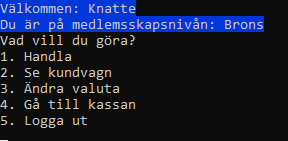
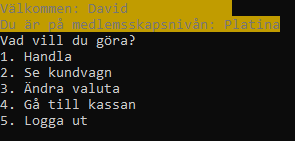
Final version...

diff --git a/lab2/AccountMethods.cs b/lab2/AccountMethods.cs
@@ -8,7 +8,7 @@ namespace lab2
 {
     public class AccountMethods
     {
-        private readonly string userFile = @"C:\Users\User\OneDrive\Skrivbord\ITHS 24-26\C#\lab2\Lab2Csharp\lab2\CustomerList.txt";
+        private readonly string userFile = @"C:\Users\User\OneDrive\Skrivbord\ITHS 24-26\C#\Labb2\Lab2Csharp\lab2\CustomerList.txt";
         private readonly string filePath;
         private readonly Dictionary<string, Customer> _customers;
         private readonly ShoppingMethods _shoppingMethods;
@@ -95,11 +95,11 @@ namespace lab2
                         Customer.LoggedIn = true;
                         Customer.ActiveCustomer = customer;
                         Console.Clear();
-                        if (customer.Member is "Guld" or "Silver" or "Brons")
+                        if (customer.Member is "Platina" or "Guld" or "Silver" or "Brons")
                         {
-                            Console.BackgroundColor = ConsoleColor.DarkBlue;
-                            Console.ForegroundColor = ConsoleColor.Gray;
-                            Console.WriteLine("Välkommen: " + customer.Name + "\nDu är på medlemsskapsnivån: " + customer.Member);
+                            Console.BackgroundColor = ConsoleColor.DarkYellow;
+                            Console.ForegroundColor = ConsoleColor.DarkGray;
+                            Console.WriteLine("Välkommen: " + customer.Name + "             \nDu är på medlemsskapsnivån: " + customer.Member);
                             Console.ResetColor();
                         }
                         else

diff --git a/lab2/Customers/CustomerClass.cs b/lab2/Customers/CustomerClass.cs
@@ -11,8 +11,12 @@ namespace lab2.Customers
         public static bool LoggedIn { get; set; }
         //Active customer ska kunna vara null
         public static Customer? ActiveCustomer { get; set; }
-        public string Name { get; set; }
-        public string Password { get; set; }
+        private string name;
+        public string Name
+        {
+            get { return name; }
+        }
+        public string Password { get; private set; }
         public ShoppingCart ShoppingCart { get; set; }
         //Ingen medlemsnivå som standard
         public virtual string Member { get; set; } = "Ej medlem";
@@ -20,7 +24,7 @@ namespace lab2.Customers
 
         public Customer(string name, string password)
         {
-            Name = name;
+            this.name = name;
             Password = password;
             ShoppingCart = new ShoppingCart();
         }
@@ -70,6 +74,7 @@ namespace lab2.Customers
     {
         public static Dictionary<string, Customer> Customers { get; set; } = new Dictionary<string, Customer>
         {
+               { "David", new PlatinumMember("David", "MVG") },
             { "Knatte", new BronzeMember("Knatte", "123") },
             { "Fnatte", new SilverMember("Fnatte", "321") },
             { "Tjatte", new GoldMember("Tjatte", "213") }

diff --git a/lab2/Shopping/ProductClass.cs b/lab2/Shopping/ProductClass.cs
@@ -29,9 +29,11 @@ namespace lab2.Shopping
         {
             new() { Name = "Laptop", SekPricePerUnit = 12000, PricePerUnit = 12000 },
             new() { Name = "Skärm", SekPricePerUnit = 5000, PricePerUnit = 5000 },
-            new() { Name = "Datormus", SekPricePerUnit = 399, PricePerUnit = 399},
-            new() { Name = "Tangentbord", SekPricePerUnit = 650, PricePerUnit = 650 }
-
+            new() { Name = "Datormus", SekPricePerUnit = 399, PricePerUnit = 399},           
+            new() { Name = "Tangentbord", SekPricePerUnit = 650, PricePerUnit = 650 },
+            new() { Name = "Gamingstol", SekPricePerUnit = 3990, PricePerUnit = 3990},
+            new() { Name = "Hörlurar", SekPricePerUnit = 449, PricePerUnit = 449},
+            new() { Name = "Mikrofon", SekPricePerUnit = 350, PricePerUnit = 350}
         };
         public static void UpdatePrices(double exchangeRate)
         {

diff --git a/lab2/Customers/Memberships/PlatinumMember.cs b/lab2/Customers/Memberships/PlatinumMember.cs
@@ -1,0 +1,17 @@
+//Platinum 50% rabatt på hela köpet
+
+using System;
+using System.Collections.Generic;
+using System.Linq;
+using System.Text;
+using System.Threading.Tasks;
+
+namespace lab2.Customers.Memberships
+{
+    public class PlatinumMember : Customer
+    {
+        public override string Member { get; set; } = "Platina";
+        public override double Discount { get; set; } = 50.0;
+        public PlatinumMember(string name, string password) : base(name, password) { }
+    }
+}

diff --git a/lab2/Shopping/ShoppingMethods.cs b/lab2/Shopping/ShoppingMethods.cs
@@ -113,7 +113,7 @@ namespace lab2.Shopping
                 Console.WriteLine($"{product.Quantity,-5} stycken {product.Name}");
             }
 
-            double totalCost = customer.ShoppingCart.GetTotalCost(currentCurrency, exchangeRate); 
+            double totalCost = customer.ShoppingCart.GetTotalCost(currentCurrency, exchangeRate);
             double discountAmount = totalCost * (customer.Discount / 100);
 
             if (discountAmount > 0)

diff --git a/lab2/Shopping/ShoppingCart.cs b/lab2/Shopping/ShoppingCart.cs
@@ -49,7 +49,6 @@ namespace lab2.Shopping
             }
             else
             {
-                // För att hålla reda på den sammanlagda kostnaden
                 double totalCost = 0;
 
                 Console.WriteLine("--------------------------------------------------");
